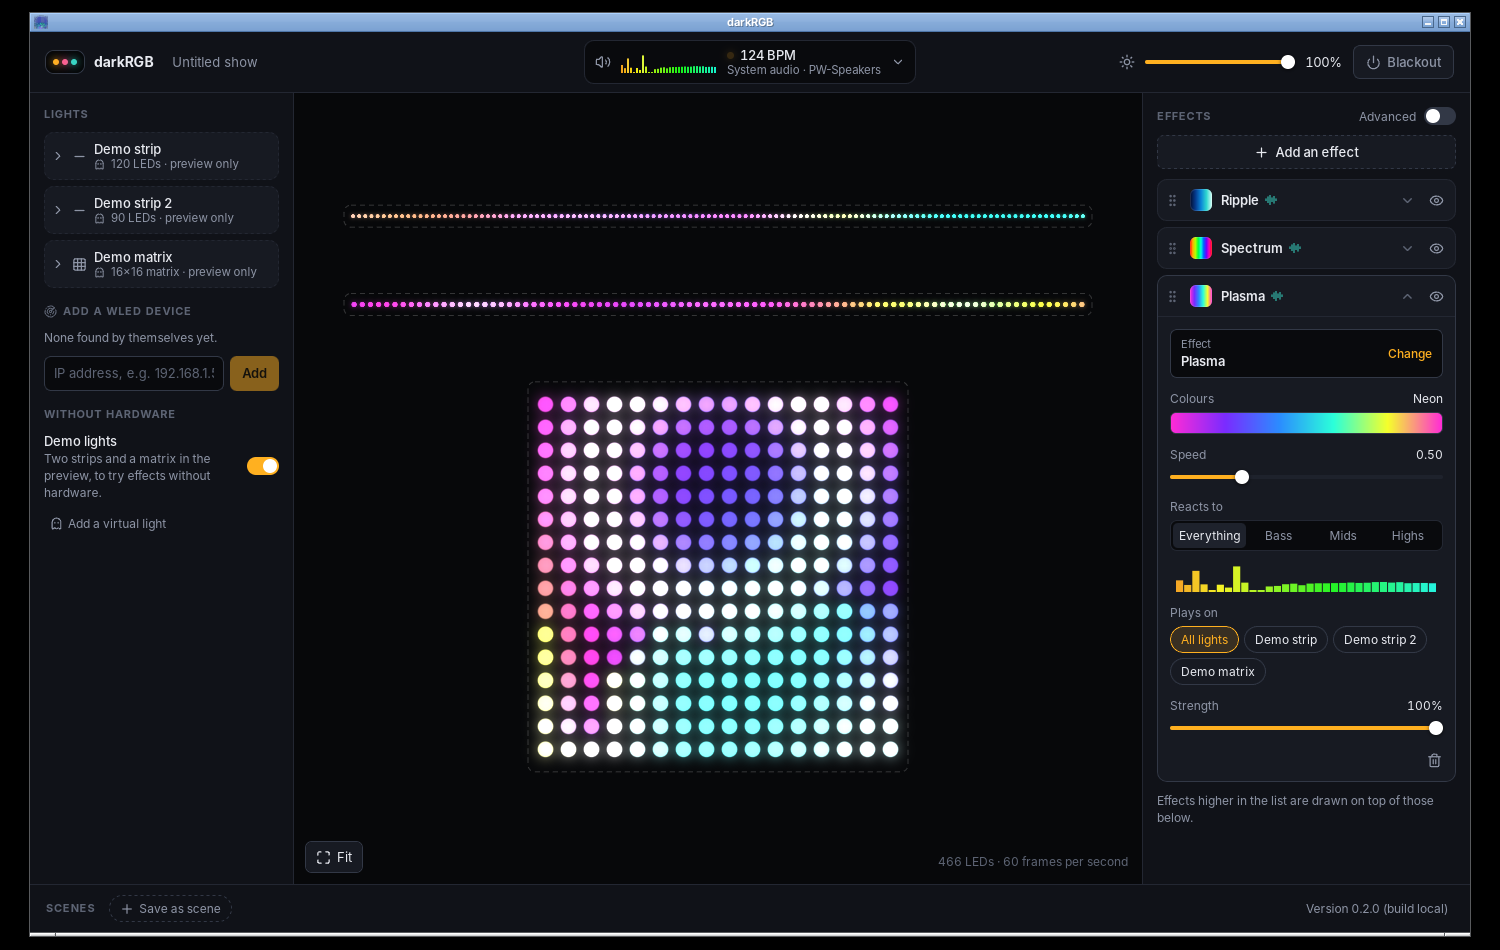
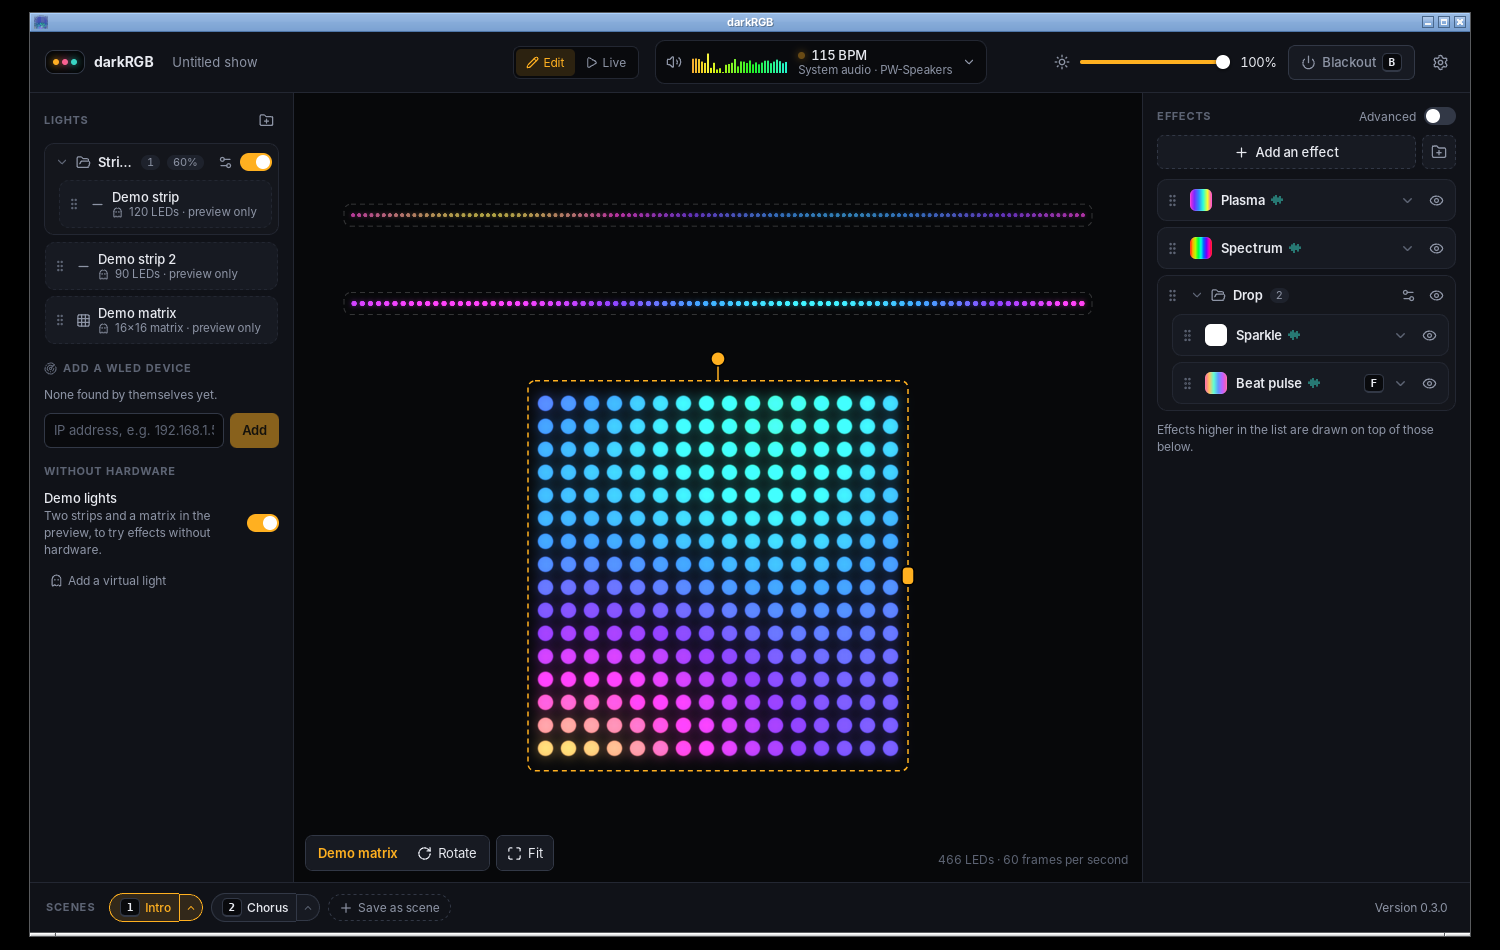
Docs for 0.3.0: keys, folders, groups, settings and the Live view
README, changelog, roadmap and architecture describe what is built and
what is left of live mode. The key-handling check is recorded as passed
in the Linux app window. New screenshots.

diff --git a/docs/architecture.md b/docs/architecture.md
@@ -1,7 +1,8 @@
 # Architecture
 
-Decided on 2026-11-10. As of version 0.2.0 the engine, the app window, the UI and the device simulator exist;
-live mode and the timeline do not. Sections say which parts are built. Items marked **(to verify)** are
+Decided on 2026-11-10. As of version 0.3.0 the engine, the app window, the UI and the device simulator exist,
+and live mode has its first cut (keys, pads, tap tempo); MIDI and the timeline do not exist. Sections say
+which parts are built. Items marked **(to verify)** are
 assumptions that the checks in [roadmap.md](roadmap.md) test.
 
 ## Why installed software, not a website
@@ -81,7 +82,9 @@ Its speed on a real graphics card is not measured.
   lights added and removed as a set.
 - A **fixture** is a strip, matrix or custom shape on a device output, with a pixel count and a position on a 2D
   canvas (3D later).
-- **Groups** collect fixtures.
+- A **group of lights** collects fixtures under a name. A layer can target a group, so lights added to the
+  group later are included; a group has its own brightness and on/off switch, applied after the layers are
+  mixed. A fixture is in one group or none. Built.
 - Effects render in layout space, so one effect can sweep across fixtures on different devices.
 - The user never sees universe or channel numbers. The engine derives packets from the layout.
 
@@ -105,9 +108,48 @@ Its speed on a real graphics card is not measured.
 - Every change goes through a command. The same commands will serve the UI, the phone remote, MIDI mappings
   and recording. Commands are validated in one place (`crates/engine/src/commands.rs`). Undo is not built.
 
-Built so far: layers that are always on (the audio-reactive case), four blend modes, scenes, and per-layer
-sound settings (below). Clips with start and stop times, modulators on individual parameters, and recording
-are not built.
+Built so far: layers that are always on (the audio-reactive case) or switched by keys (below), four blend
+modes, folders, scenes, and per-layer sound settings (below). Clips with start and stop times, modulators on
+individual parameters, and recording are not built.
+
+### Folders
+
+A **folder** groups layers. The stack stays one flat list, bottom to top, and each layer names the folder it
+is in; the rule that a folder's layers sit next to each other is restored after every change
+(`Show::tidy_layers`). A folder can switch off everything inside it and scale its strength. The UI rearranges
+by sending the whole new order (`arrange_layers`), which the engine refuses if it does not name exactly the
+layers that exist, so a stale drag cannot scramble the stack. A scene stores its folders along with its
+layers.
+
+Ids are unique across everything in a show, so one list of targets on a layer can hold fixtures and groups of
+lights alike.
+
+### Live: keys, holds, tempo
+
+A **binding** ties a key to an action: switch to a scene, switch an effect, a folder or a group of lights,
+blackout, tap the tempo, fire a beat. Keys are stored by position (`KeyA`), with the printed label kept for
+display, so a show works on any keyboard layout. A key has one action and an action one key.
+
+The UI turns key presses into `trigger` commands (binding id, down or up); the engine decides what they do.
+That keeps the door open for MIDI, which the engine will listen to itself and feed into the same path.
+
+What is live and not saved lives in `crates/engine/src/live.rs`, as pure logic with the time passed in:
+
+- **Held keys.** A "while held" key flips its target only in the copy of the show the frame loop renders
+  (`Live::overlay`); the saved show never changes. Each client's held keys are released when its connection
+  closes, and the UI lets go when the window loses focus.
+- **Tapped tempo.** Two or more taps set a tempo that replaces the one found in the music (beat, phase, count)
+  until cleared. The first tap of a run is the first beat of four.
+- **Hand-fired beats.** Raise the beat and hit signals for a moment, so effects that wait for one go off.
+- **A waiting scene.** With scene changes set to wait, a requested scene starts on the first beat (or fourth
+  beat) that begins after it was asked for, or after a few seconds if no beat comes.
+
+A scene change can **fade**: the frame loop keeps the outgoing show and its renderer alive, renders both, and
+mixes them until the fade is over. The incoming scene starts with a fresh renderer; the fade hides the
+restart.
+
+Sound can be **delayed** for speakers that play late: the frame loop keeps a short history of audio features
+and reads from the past. The tapped tempo is not delayed, since it is tapped to what the user hears.
 
 ### What a layer hears
 
@@ -135,7 +177,7 @@ which groups them in the picker.
 
 - Audio callback thread: copies samples into a lock-free ring buffer and does nothing else.
 - Analysis thread: FFT and features per hop.
-- Render thread: fixed tick (60 fps by default, capped per device), renders layers, hands frames to output.
+- Render thread: fixed tick (60 fps by default; 30 and 40 can be chosen), renders layers, hands frames to output.
 - Output: UDP sends, paced per device.
 - API and discovery: async tasks (tokio).
 - Clock: a monotonic clock in audio-reactive and live modes; the audio playback position in timeline mode, so
@@ -221,9 +263,10 @@ Built. One WebSocket per client at `/ws`; the engine also serves the UI over HTT
 | From the engine | Content |
 |---|---|
 | text `hello` | Version, the effect list with each effect's parameters, palettes. Sent once. |
-| text `state` | The whole show. Sent on connect and after every change. |
+| text `state` | The whole show, and which scene is playing unchanged. On connect and after every change. |
 | text `audio` | Audio features, 30 times a second. |
 | text `status` | Frame rate, per-device send counts, audio status, discovered devices. Once a second. |
+| text `live` | Keys being held, a scene waiting for the beat, the tapped tempo. On every change. |
 | text `result` | Outcome of a command that carried an `id`. |
 | binary, first byte 1 | Preview colours: RGB per pixel, 30 times a second. |
 | binary, first byte 2 | Canvas position of every pixel, sent when the layout changes. |
@@ -233,6 +276,10 @@ colours whose serial matches the positions it holds.
 
 Clients send commands as JSON text. The UI builds effect controls from the `hello` message, so adding an effect
 needs no UI code.
+
+One thing goes over plain HTTP: opening a show file (`POST /api/import`), because a whole show does not fit in
+a WebSocket message. It gets the same checks as a show file read from disk, and the same checks on who is
+asking, with the `Origin` header required.
 
 ### Who may connect
 
@@ -248,6 +295,11 @@ Built: the show is one human-readable JSON file with a format version, saved a m
 user's config folder (or the path given with `--show`). It is written to a temporary file and renamed, so a
 crash cannot truncate it. A file that cannot be read, or that comes from a newer version, is kept as `.bak` and
 reported in the UI.
+
+Also built: saving a copy to the Documents folder, opening a show file, and starting a new show (optionally
+keeping the lights). Whatever replaces the show first writes the old one to `show.previous.json` beside it.
+After loading, `Show::repair` mends loose ends a hand-edited or older file can have (a folder or key pointing
+at something that is gone); the randomised command test checks that no command can create such loose ends.
 
 Planned: a folder per show with a `media/` folder for songs and images. Shared shows leave the songs out.
 

diff --git a/docs/roadmap.md b/docs/roadmap.md
@@ -15,9 +15,9 @@ The plan rests on a few assumptions. Each has a check; `darkrgb-cli` runs the fi
 | System audio on Linux | Live levels from whatever is playing, with no setup, following the default output | Passed in a container with virtual outputs, on PulseAudio 16.1 and PipeWire 1.0.5: all audio received, a burst detected within about 30 ms, default-output changes followed. Not yet run on a desktop with real speakers. |
 | System audio on Windows | The same, through WASAPI loopback | **Passed** on the owner's Windows PC: `audio-test` reported 100% of the audio received. One machine so far. |
 | DDP to a real WLED | 60 fps to a physical ESP32 for 10 minutes without visible stutter, on WiFi and on Ethernet | Passed against the simulator (60 fps, under 1 ms jitter on one machine). **Not run on hardware.** `darkrgb-cli ddp-test IP` |
-| The app window on Windows | It opens, shows the UI and closes cleanly | It builds in CI. **Not run by anyone yet.** |
+| The app window on Windows | It opens, shows the UI and closes cleanly | 0.2.0 built in CI. **Not run by anyone yet.** |
 | Preview speed in the Linux app window | 10,000 points at 30 fps or better in WebKitGTK | The window works and draws the preview under a virtual display with software rendering. Speed on a real graphics card is **not measured.** |
-| Key handling | Key down and up arrive reliably in the app window, several keys held | **Not run.** Belongs to live mode. |
+| Key handling | Key down and up arrive reliably in the app window, several keys held | **Passed on Linux** in the app window (WebKitGTK under a virtual display): a held key, a second key pressed while it was held, taps and number keys all arrived. Windows not run. |
 
 If the preview is too slow in the Linux window, `darkrgb-cli` (browser) is the fallback today, and Electron on
 Linux the longer-term one.
@@ -35,6 +35,10 @@ Built:
   dragging, and can be renamed and duplicated.
 - Each layer hears everything, bass, mids, highs or a custom range, with its own sensitivity, and its
   brightness can follow the sound.
+- Folders for effects (switch, dim, fold, drag in and out) and groups of lights (an effect can play on a
+  group; a group dims or switches as one).
+- A settings window: brightness ceiling, frames per second, a delay for late speakers, keys, the show file.
+- Save a copy of the show, open a show file, start a new show keeping the lights.
 - Simple by default: parameters are marked basic or advanced, and an Advanced switch reveals the rest.
 - Live preview from the same frames the lights get.
 - Zero-setup audio on Linux and Windows.
@@ -60,11 +64,27 @@ minutes.
 
 ## 2. Live mode
 
-- Grid of clips and scenes.
-- Keyboard and MIDI mapping with a "learn" button; flash, toggle and hold behaviours.
-- Tap tempo, and beat-quantised launching.
-- Master dimmer, blackout, colour palettes.
-- Layers with blend modes.
+Built:
+
+- Keys tied to scenes, effects, folders of effects, groups of lights, blackout, tap tempo and a hand-fired
+  beat. Assigned by pressing the key ("learn"). A switch key either flips on each press or acts only while
+  held. The first ten scenes take the number keys by themselves.
+- A Live view: the stage and a pad for every scene and key, usable by mouse and touch.
+- Tap tempo, which replaces the tempo found in the music until told to follow the music again.
+- Scene changes at once, on the next beat or on every fourth beat, with an optional fade.
+- A key held by a window that closes or loses focus is let go.
+- Master dimmer, blackout, palettes, layers with blend modes (from stage 1).
+
+Left:
+
+- MIDI controllers, with the same "learn" as keys. The engine will listen for MIDI itself, so it works in the
+  app window on Linux, where the web view has no MIDI.
+- A grid of clips: today a key switches an effect that is already in the stack. Clips that start from their
+  beginning when launched, and one-shot clips that end by themselves, are not built.
+- Holding a key for a scene (show it while held, return on release).
+- Knobs and faders: a key can switch things but nothing continuous can be mapped yet.
+- A strobe limit and a photosensitivity warning before flashing is this easy to do on real lights.
+- Seeing which key does what on one printable page.
 
 Done when a full song can be performed from the keyboard without touching the mouse.
 
@@ -105,7 +125,8 @@ Done when a three-minute show can be recorded live, cleaned up in the editor and
 | Licence | Decided 2026-11-10: GPL-3.0-or-later | xLights, LedFx and the aubio beat library are GPL-3, so this allows porting their effects. |
 | Name | Decided 2026-11-10: darkRGB | The first name, OpenLightShow, clashed with an existing Python app of the same name and kind ([digidigital/openlightshow](https://github.com/digidigital/openlightshow), on PyPI as `openlightshow`). For darkRGB no GitHub repo, user or organisation of that name was found, `darkrgb` was free on crates.io, npm and PyPI, and web searches found no product called that. This is not a trademark search. Names ending in "RGB" usually mean PC keyboard and fan lighting, so some people will assume that first. |
 | Linux shell | Tauri (WebKitGTK) or Electron | Tauri is built and works. Electron only if the preview proves too slow on real hardware. |
-| Phone remote | Password or pairing code for `--lan` | Needed before recommending `--lan`. Today anyone on the network can control the lights. |
+| Phone remote | Password or pairing code for `--lan` | Needed before recommending `--lan`. Today anyone on the network can control the lights. The Live view's pads already work by touch. |
+| Where settings live | In the show file, or per computer | Today the brightness ceiling, frame rate and speaker delay are saved in the show. When there is more than one show, the ones that describe the room and the computer should move out of it. |
 | Windows code signing | Sign or ship unsigned | Unsigned installers trigger SmartScreen warnings; certificates cost money. Ship unsigned until there are users. |
 
 ## Things to keep in mind

diff --git a/README.md b/README.md
@@ -10,18 +10,18 @@ between them:
 It targets ESP32 controllers running [WLED](https://kno.wled.ge/) first, then generic sACN and Art-Net pixel
 controllers.
 
-![darkRGB with demo lights reacting to music](docs/images/main.png)
+![darkRGB: lights in a group, effects in a folder, keys on scenes and effects](docs/images/main.png)
 
 ## Status
 
-Version 0.2.0, in development. The first mode, audio-reactive, works end to end. Live and timeline modes are not
-started.
+Version 0.3.0, in development. Audio-reactive mode works end to end. Live mode has its first working cut:
+keys, pads, tap tempo and scene changes on the beat. MIDI and the timeline are not started.
 
 | | Linux | Windows |
 |---|---|---|
-| Automated tests | pass | pass |
+| Automated tests | pass | pass as of 0.2.0; 0.3.0 not yet built there |
 | System audio with no setup | works (PulseAudio and PipeWire, tested with virtual speakers) | works (checked on one Windows PC) |
-| The app window | works (tested under a virtual display) | builds; not yet run by anyone |
+| The app window | works, keys included (tested under a virtual display) | builds as of 0.2.0; not yet run by anyone |
 | Real WLED hardware | not yet tried | not yet tried |
 
 The effects have only met synthetic test songs so far, so expect them to need tuning against real music. See
@@ -34,11 +34,17 @@ What works today:
   hardware.
 - Captures system audio with no setup and analyses it: loudness, 32 frequency bands, hits in bass, mids and
   highs, tempo and beats.
-- Ten effects in layers. Each can play on all lights or chosen ones, and react to everything, bass, mids,
-  highs or a frequency range you pick.
+- Ten effects in layers. Each can play on all lights, chosen ones or a group, and react to everything, bass,
+  mids, highs or a frequency range you pick.
+- Folders for effects and groups for lights, each switched or dimmed as one.
 - A live preview where strips and matrices are arranged by dragging.
-- Scenes, master brightness and blackout. The show saves itself.
-- Simple by default; an Advanced switch reveals the rest.
+- Scenes, master brightness and blackout. The show saves itself; copies can be saved and opened.
+- Keys for scenes, effects, folders, groups, blackout, tap tempo and a hand-fired beat. Number keys switch
+  scenes with no setup.
+- A Live view with pads for all of it, usable by touch.
+- Simple by default; an Advanced switch and a settings window hold the rest.
+
+![The Live view while a key is held to flash white](docs/images/live.png)
 
 ## Try it
 

diff --git a/CHANGELOG.md b/CHANGELOG.md
@@ -1,6 +1,23 @@
 # What's new
 
-## 0.2.0 (in development)
+## 0.3.0 (in development)
+
+Playing the lights from the keyboard, and keeping a growing show tidy.
+
+- Keys: give a scene, an effect, a folder of effects or a group of lights a key by pressing it. A key can
+  switch its thing on each press, or only while it is held down, which is how to flash.
+- The first ten scenes get the number keys by themselves.
+- A Live view: a big stage with a pad for every scene and every key. Pads work by mouse and touch too.
+- Scene changes can wait for the beat, and can fade instead of cutting.
+- Tap the tempo when the music's beat is not being found, and fire a beat by hand.
+- Folders for effects: drag effects in, fold the folder shut, switch or dim everything inside at once.
+- Groups of lights: an effect can play on a whole group, and a group can be dimmed or switched off as one.
+- Settings, behind the gear button: a brightness ceiling, frames per second, a delay for speakers that play
+  late, the keys, and the show file.
+- Save a copy of the show, open a show file, or start a new show and keep your lights.
+- Scenes can be renamed and updated from their own menu.
+
+## 0.2.0
 
 New name: darkRGB.
 
